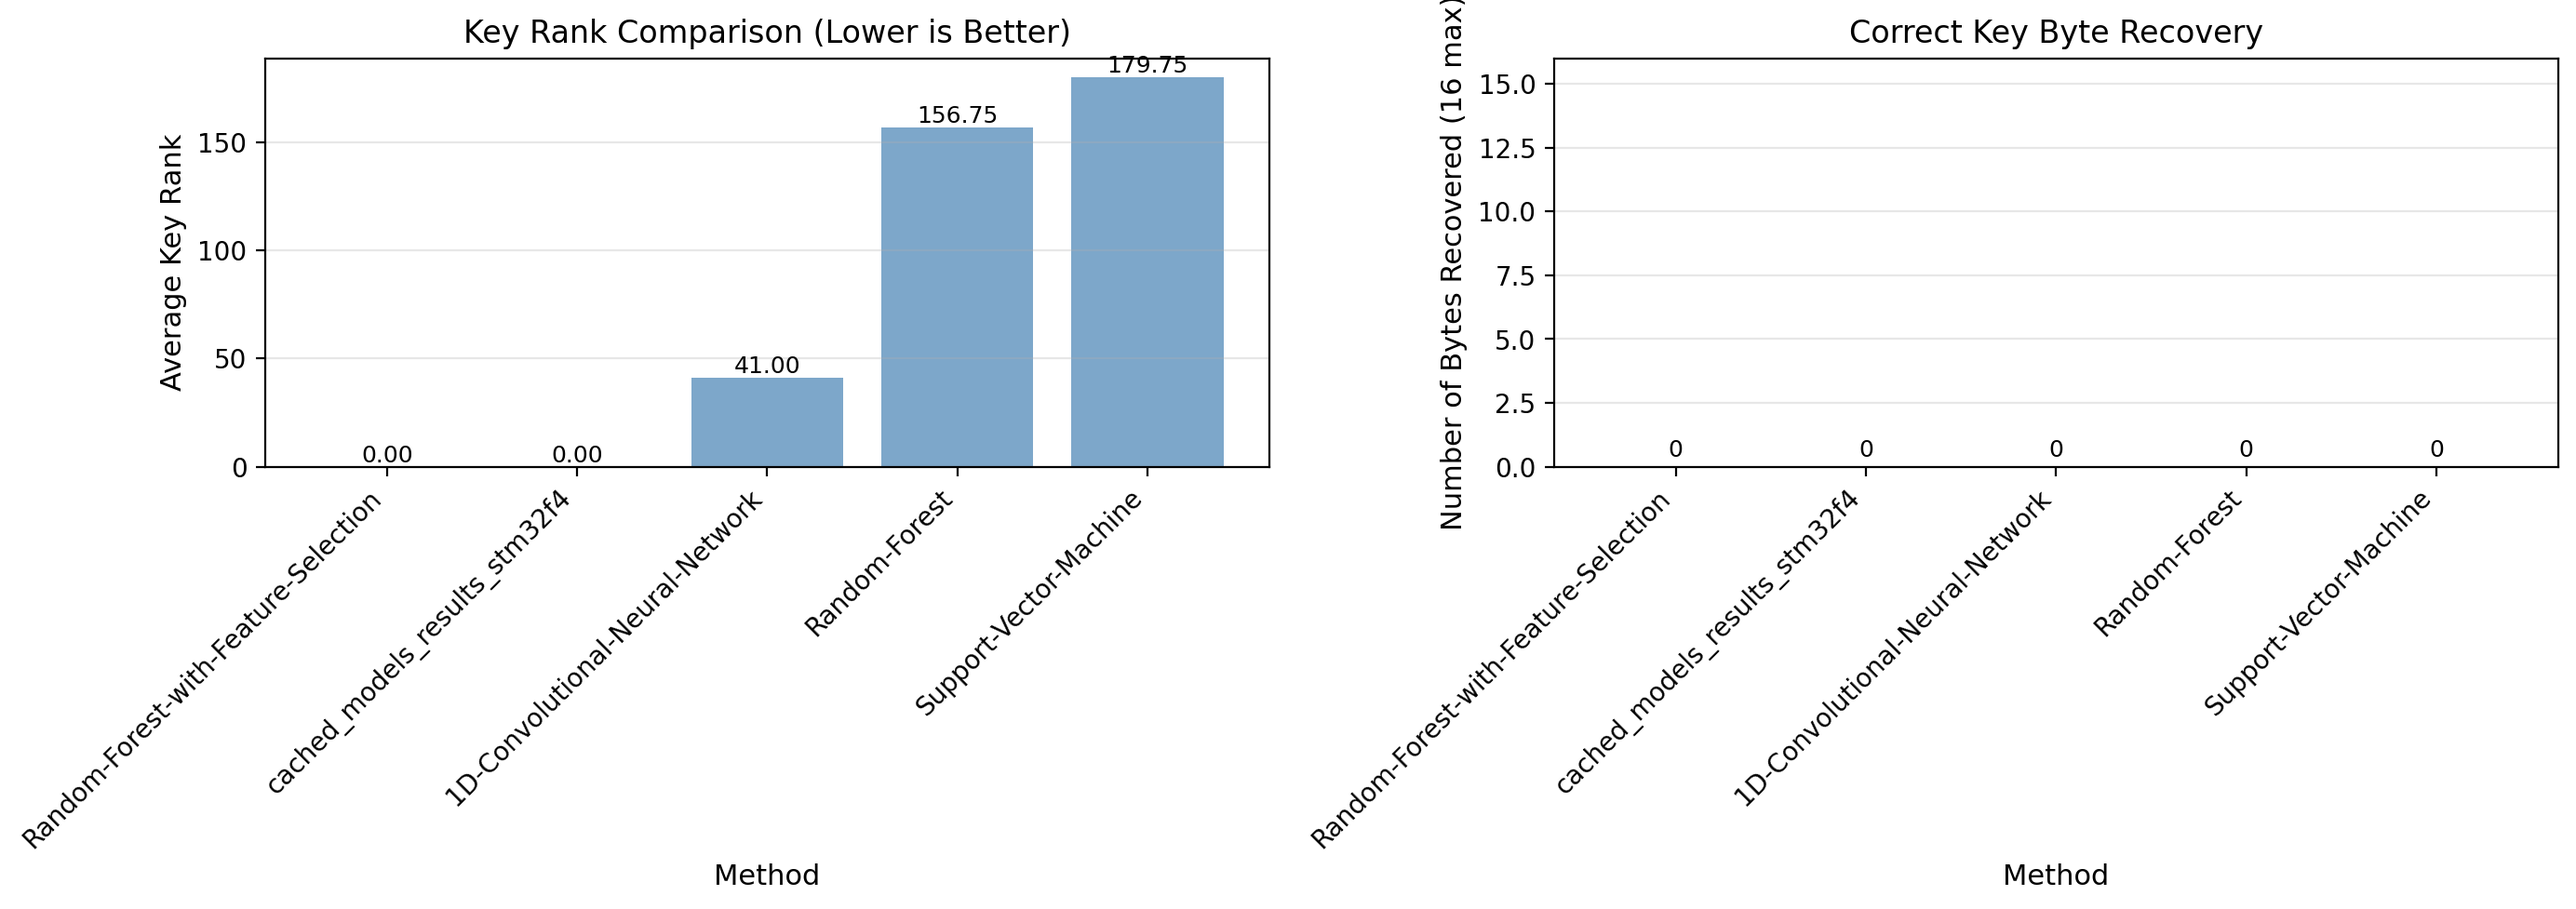
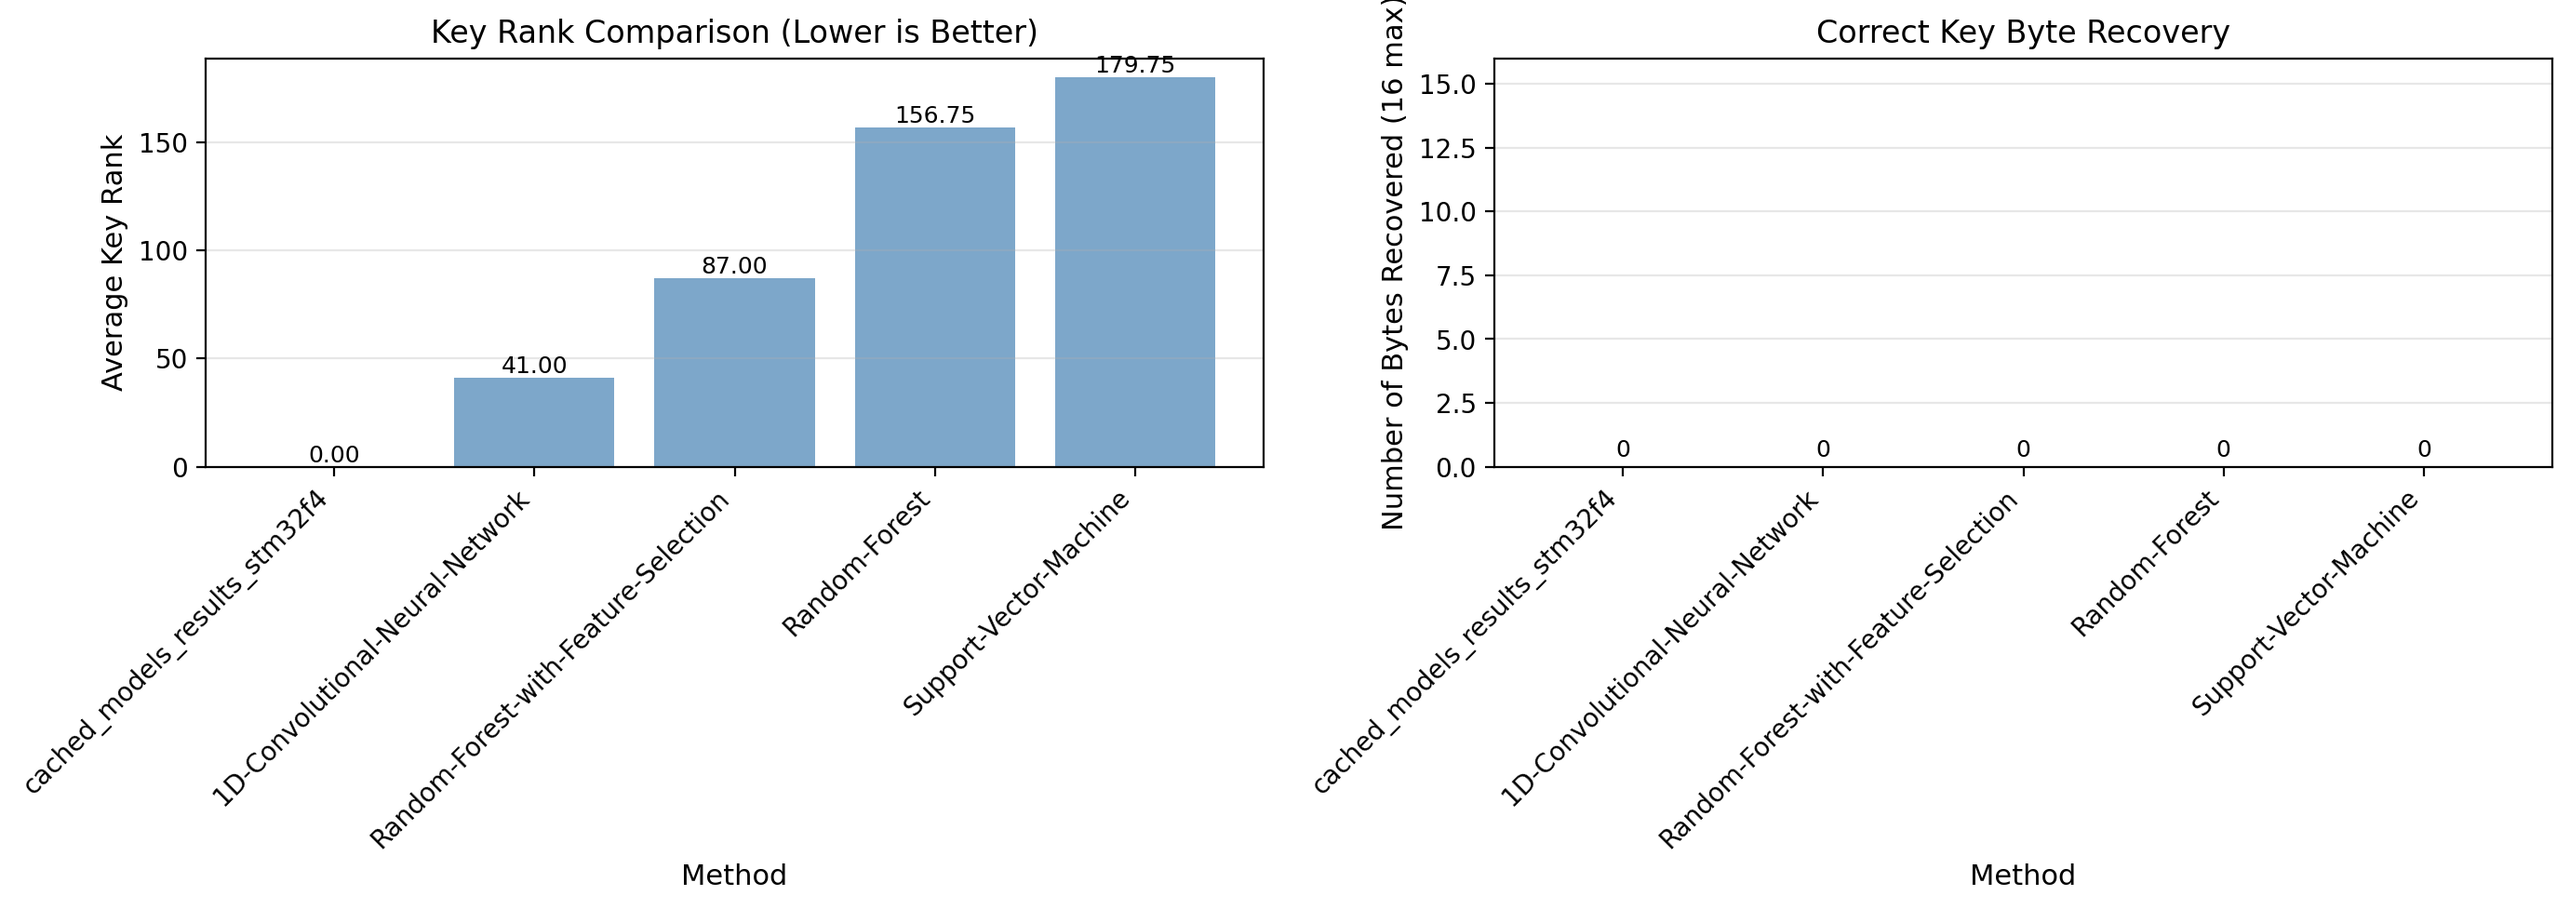
Small updates

diff --git a/exp_cortexm4/compare_all_methods_stm32f4.py b/exp_cortexm4/compare_all_methods_stm32f4.py
@@ -84,9 +84,33 @@ def main(results_dir="results/stm32f4_ml", output_file="comparison_stm32f4.txt")
         else:
             ranks_list = key_ranks
         
-        avg_rank = np.mean(ranks_list) if ranks_list else 0
-        best_rank = min(ranks_list) if ranks_list else 0
-        worst_rank = max(ranks_list) if ranks_list else 0
+        if ranks_list:
+            avg_rank = np.mean(ranks_list)
+            best_rank = min(ranks_list)
+            worst_rank = max(ranks_list)
+        elif "variance_results" in data:
+            # Feature-selection results store rankings by selection threshold.
+            # Keep consistency with report values by preferring threshold 85.
+            var_results = data.get("variance_results", {})
+            chosen = var_results.get("85")
+            if chosen:
+                chosen_list = [float(v) for v in chosen]
+            else:
+                # Fallback: use the best average among available variance thresholds.
+                candidates = [
+                    [float(v) for v in ranks]
+                    for ranks in var_results.values()
+                    if isinstance(ranks, list) and ranks
+                ]
+                chosen_list = min(candidates, key=np.mean) if candidates else []
+
+            avg_rank = float(np.mean(chosen_list)) if chosen_list else 0
+            best_rank = int(min(chosen_list)) if chosen_list else 0
+            worst_rank = int(max(chosen_list)) if chosen_list else 0
+        else:
+            avg_rank = 0
+            best_rank = 0
+            worst_rank = 0
         
         summary.append({
             "method": method.replace(" ", "-"),
